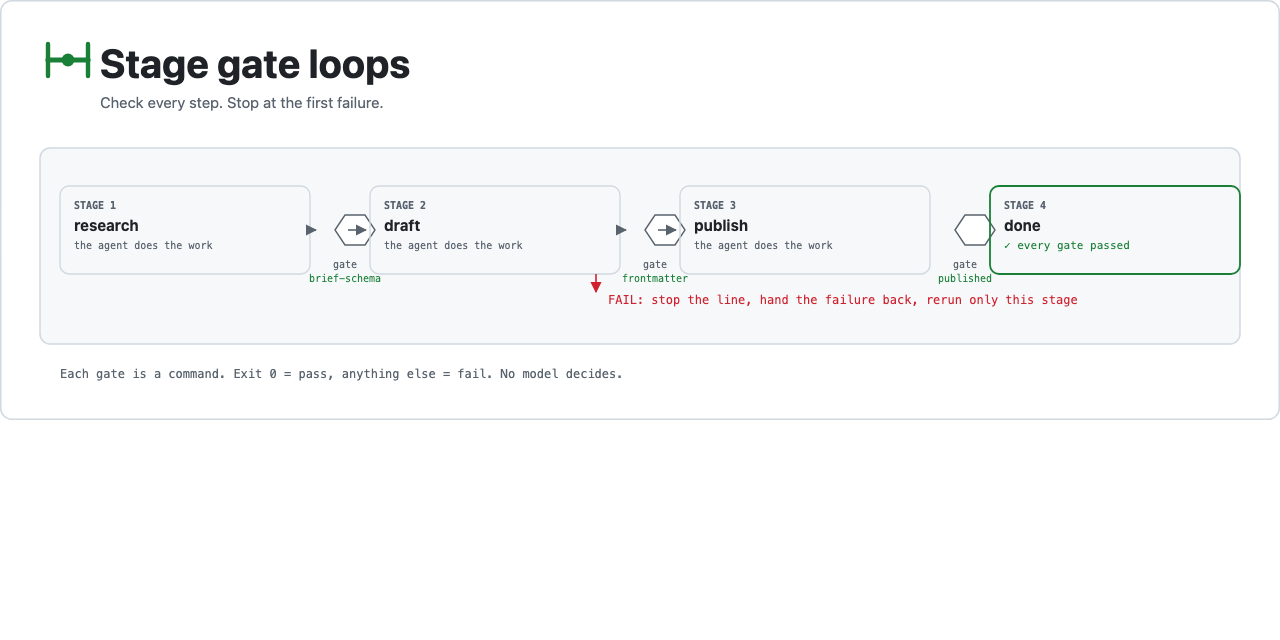
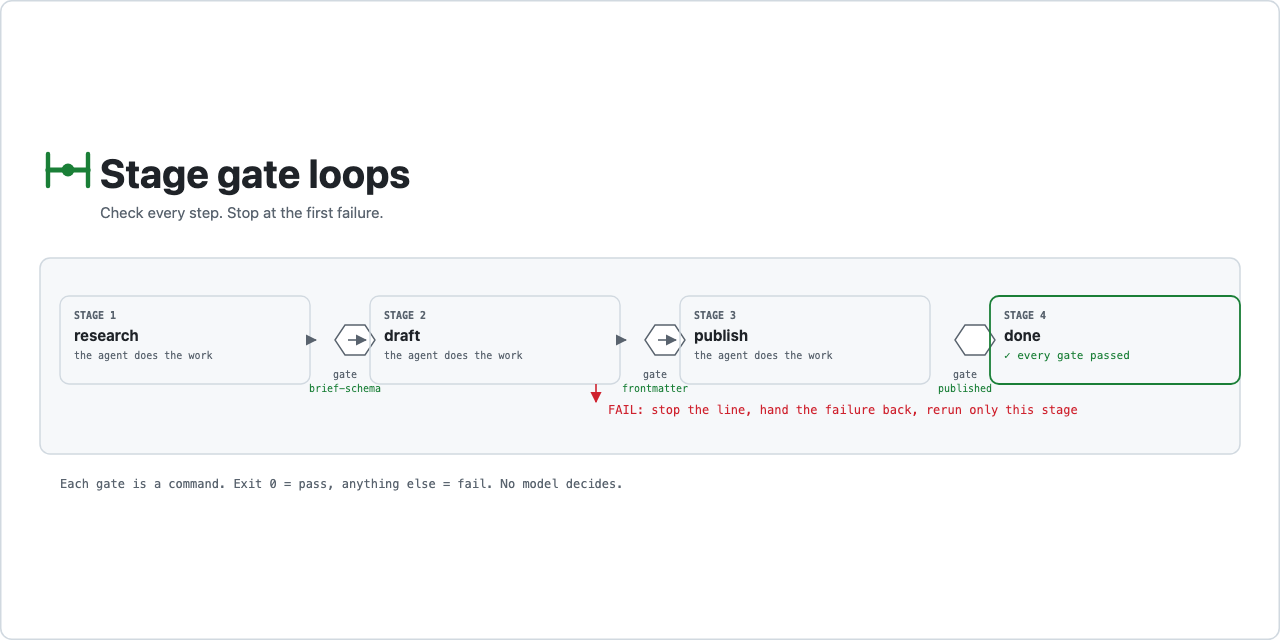
social card fills its full 1280x640 canvas instead of leaving a white band

diff --git a/assets/build.py b/assets/build.py
@@ -103,11 +103,9 @@ def stage_card(x, y, bw, bh, num, name, note, p, colour=None, verdict=None):
 
 
 # --------------------------------------------------------------------------- hero
-def hero(p) -> str:
-    W, H = 1280, 420
-    s = header(W, H, p, "Stage gate loops",
-               "Four stages, each ending in a gate that must pass before the next stage runs")
-    s += gate_mark(44, 40, 2.0, p)
+def hero_body(p) -> str:
+    """The hero artwork without its frame, so the social card can reuse it."""
+    s = gate_mark(44, 40, 2.0, p)
     title = "Stage gate loops"
     tag = "Check every step. Stop at the first failure."
     fit(title, 40, 1000, "hero title")
@@ -146,7 +144,23 @@ def hero(p) -> str:
            12, p["fail"])
     s += t(60, 378, "Each gate is a command. Exit 0 = pass, anything else = fail. No model decides.",
            12, p["muted"])
-    return s + "</svg>\n"
+    return s
+
+
+def hero(p) -> str:
+    W, H = 1280, 420
+    s = header(W, H, p, "Stage gate loops",
+               "Four stages, each ending in a gate that must pass before the next stage runs")
+    return s + hero_body(p) + "</svg>\n"
+
+
+def social(p) -> str:
+    """1280x640 card for link previews. The background must fill the whole
+    canvas: a preview that is cropped to 640 with a white band at the bottom
+    looks broken in every chat client."""
+    W, H = 1280, 640
+    s = header(W, H, p, "Stage gate loops", "Check every step. Stop at the first failure.")
+    return s + f'<g transform="translate(0,{(H - 420) / 2:.0f})">' + hero_body(p) + "</g></svg>\n"
 
 
 # --------------------------------------------------------------------------- flow
@@ -363,7 +377,8 @@ def logo(p) -> str:
 
 def main() -> int:
     assets = [("hero", hero), ("how-it-works", flow), ("two-ways", compare),
-              ("benchmark", benchmark), ("terminal", terminal), ("logo", logo)]
+              ("benchmark", benchmark), ("terminal", terminal), ("logo", logo),
+              ("social", social)]
     for name, fn in assets:
         for theme, pal in (("light", LIGHT), ("dark", DARK)):
             path = OUT / f"{name}-{theme}.svg"
@@ -375,7 +390,7 @@ def main() -> int:
         png = OUT / "social-preview.png"
         subprocess.run([chrome, "--headless=new", "--disable-gpu", "--hide-scrollbars",
                         "--force-device-scale-factor=1", "--window-size=1280,640",
-                        f"--screenshot={png}", f"file://{OUT / 'hero-light.svg'}"],
+                        f"--screenshot={png}", f"file://{OUT / 'social-light.svg'}"],
                        check=True, capture_output=True)
         print(f"wrote assets/{png.name}  ({png.stat().st_size} bytes)")
     else:
